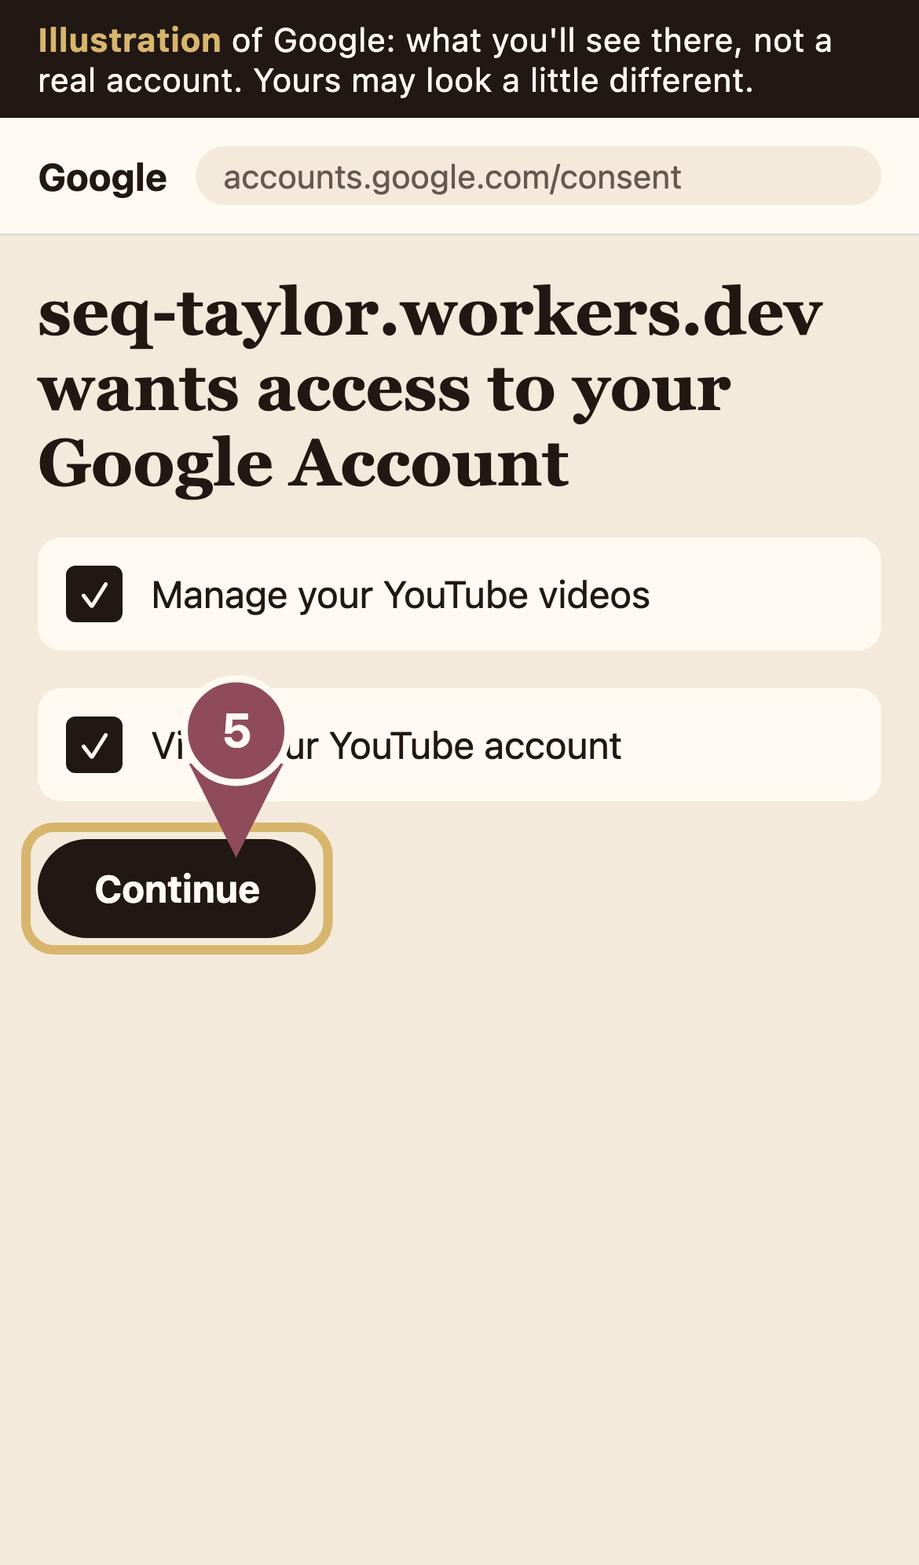
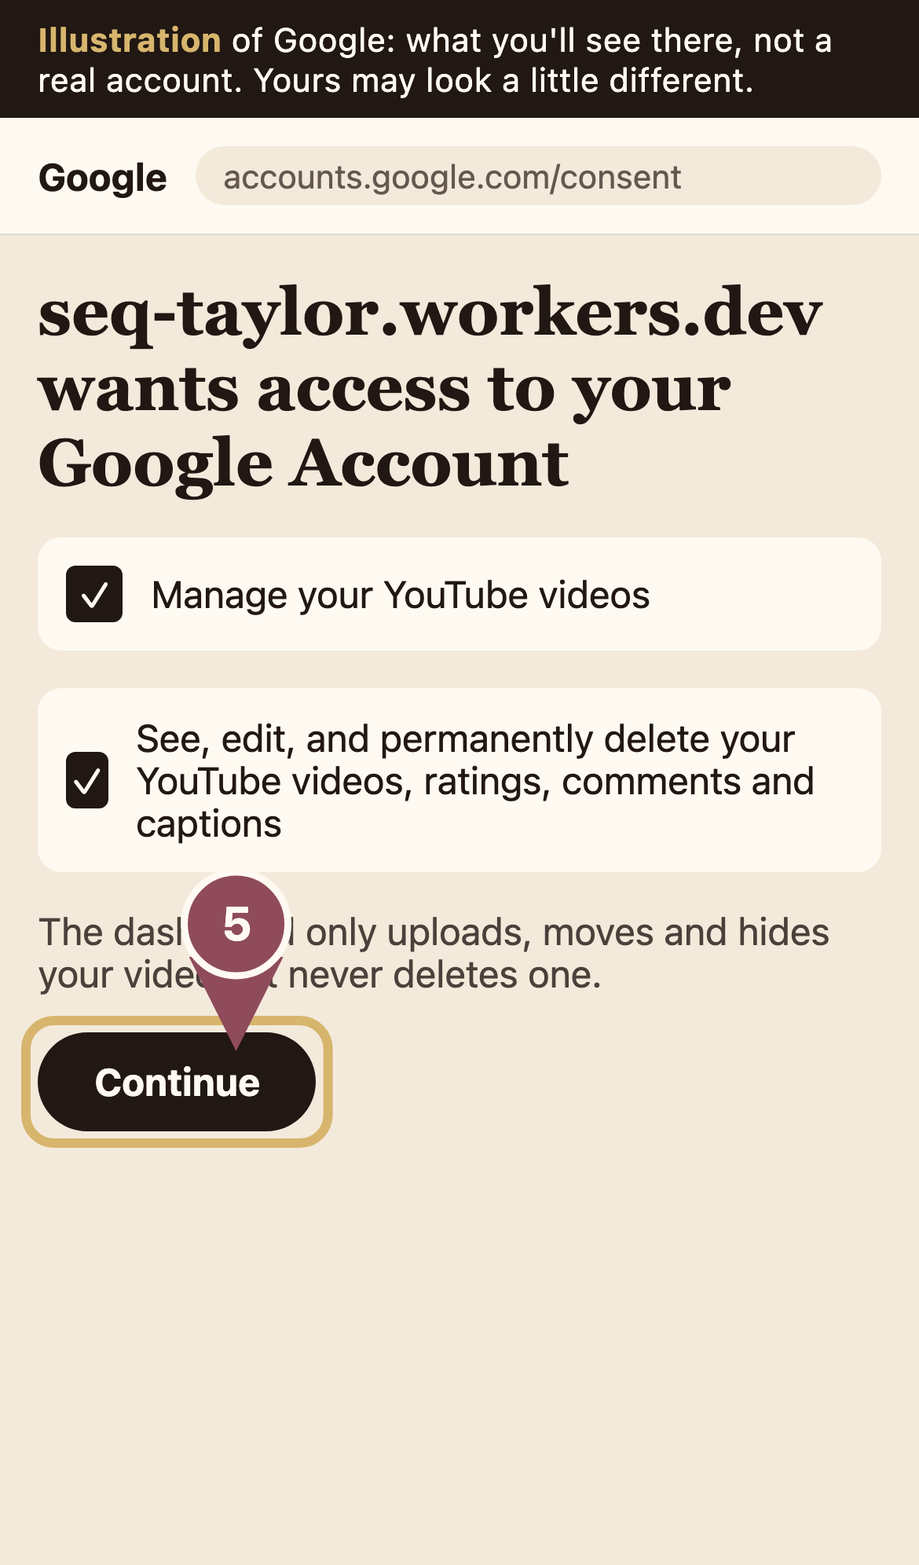
Connect YouTube: ask youtube.force-ssl so Calendar moves reach YouTube (videos.update 403 measured on staging); scope failures named; proof results (#58)
Claude-Session: https://claude.ai/code/session_0198aZUrMGZdHeBFG3uvPqJs

Changed region(s): [[0.0, 0.4357, 0.8923, 0.747]]

diff --git a/tests/unit/youtube-direct.test.ts b/tests/unit/youtube-direct.test.ts
@@ -3,7 +3,7 @@
 // bodies (shared/youtube-errors.json): upload → read back, Calendar move → publishAt, taken off →
 // private and kept, 3 a day, quota, revoked sign-in, refused publish time, unverified thumbnail,
 // kept private, an interrupted upload; the job's token endpoint; validator youtube-direct negatively.
-import { beforeEach, describe, expect, it } from "vitest";
+import { beforeEach, describe, expect, it, vi } from "vitest";
 import { Hono } from "hono";
 import { readFileSync } from "node:fs";
 import path from "node:path";
@@ -125,7 +125,7 @@ function seedVideo(privacy: "public" | "unlisted" | "private", hoursAhead: numbe
 }
 
 async function connect() {
-  await saveConnection(env, "youtube", JSON.stringify({ access_token: "fake-youtube-token", refresh_token: "fake-refresh", expires_at: new Date(Date.now() + H).toISOString(), account_id: "UCx" }), "ok", { account: "Sheila Bruce" });
+  await saveConnection(env, "youtube", JSON.stringify({ access_token: "fake-youtube-token", refresh_token: "fake-refresh", expires_at: new Date(Date.now() + H).toISOString(), account_id: "UCx" }), "ok", { account: "Sheila Bruce", scopes: ["https://www.googleapis.com/auth/youtube.upload", "https://www.googleapis.com/auth/youtube.force-ssl"] });
 }
 async function scenario(s: FakeScenario) {
   const f = await readFake(env);
@@ -278,6 +278,30 @@ describe("the failure shapes: named, lit, never silent", () => {
     expect(upload(v.clip).status).toBe("scheduled");
   });
 
+  it("a sign-in from before force-ssl (upload + readonly) → red, Reconnect YouTube once, never a silent 403", async () => {
+    await saveConnection(env, "youtube", JSON.stringify({ access_token: "a", refresh_token: "r", expires_at: new Date(Date.now() + H).toISOString(), account_id: "UCx" }), "ok", { account: "Sequoia Taylor", scopes: ["https://www.googleapis.com/auth/youtube.upload", "https://www.googleapis.com/auth/youtube.readonly"] });
+    seedVideo("public", 2);
+    expect((await youtubeDirectSync(env)).dispatched).toBe(0);
+    expect(one<{ status: string; last_error: string }>("SELECT status, last_error FROM connections WHERE service = 'youtube'")).toEqual({ status: "error", last_error: expect.stringMatching(/^Reconnect YouTube once so the dashboard can also move and hide/) });
+    expect(light()).toMatchObject({ light: "red", fix_guide: "reconnect-youtube" });
+  });
+
+  it("videos.update refused for a missing permission (the real 403 body) → reconnect named, the failure recorded with its reason", async () => {
+    await connect();
+    const v = seedVideo("public", 3);
+    await youtubeDirectSync(env);
+    await runJob(v);
+    // stand-in YouTube answers the next update with the real insufficientPermissions body
+    const svc = await import("@worker/services/youtubeDirect");
+    const orig = svc.getYouTubeDirect;
+    const spy = vi.spyOn(svc, "getYouTubeDirect").mockImplementation((e) => ({ ...orig(e), updateStatus: async () => svc.fixtureFail("insufficient_scope") }));
+    await call("POST", `/api/posts/${v.post}/unschedule`);
+    spy.mockRestore();
+    expect(JSON.parse(one<{ detail: string }>("SELECT detail FROM events WHERE kind = 'ytdirect.fail'").detail)).toEqual({ step: "update", kind: "scope", http: 403, reason: "insufficientPermissions" });
+    expect(one<{ status: string }>("SELECT status FROM connections WHERE service = 'youtube'").status).toBe("error");
+    expect(light()).toMatchObject({ light: "red", fix_guide: "reconnect-youtube" });
+  });
+
   it("the job's token endpoint: only a running ytupload job, only a short-lived access token; 409 when revoked", async () => {
     await connect();
     const v = seedVideo("public", 2);
@@ -387,7 +411,8 @@ describe("validator youtube-direct", () => {
       ["a delete", (g) => (g.service += '\nfetch(u, { method: "DELETE" });\n'), /never delete a video/],
       ["cap raised", (g) => (g.domain = g.domain.replace("YT_UPLOADS_PER_DAY = 3;", "YT_UPLOADS_PER_DAY = 6;")), /must be 3/],
       ["cap not enforced", (g) => (g.lib = g.lib.replace("const cap = capNote(today);", "const cap = null;")), /daily cap/],
-      ["extra scope", (g) => (g.lib = g.lib.replace('"https://www.googleapis.com/auth/youtube.readonly"]', '"https://www.googleapis.com/auth/youtube.readonly", "https://www.googleapis.com/auth/youtube"]')), /exactly youtube\.upload/],
+      ["extra scope", (g) => (g.lib = g.lib.replace('"https://www.googleapis.com/auth/youtube.force-ssl"]', '"https://www.googleapis.com/auth/youtube.force-ssl", "https://www.googleapis.com/auth/youtube"]')), /exactly youtube\.upload/],
+      ["update scope missing", (g) => (g.lib = g.lib.replace('"https://www.googleapis.com/auth/youtube.force-ssl"]', '"https://www.googleapis.com/auth/youtube.readonly"]')), /exactly youtube\.upload/],
       ["take off not followed", (g) => (g.posts = g.posts.replace("await followYouTube(c.env, [post.clip_id]);", "")), /follow YouTube/],
       ["hourly lane", (g) => (g.cron = g.cron.replace("await youtubeDirectSync(env);", "")), /hourly lane/],
       ["token endpoint leaks", (g) => (g.jobsRoute = g.jobsRoute.replace("c.json({ access_token: tok.access_token, expires_at: tok.expires_at }", "c.json({ ...tok }")), /only the access token/],

diff --git a/worker/lib/youtubeDirect.ts b/worker/lib/youtubeDirect.ts
@@ -40,8 +40,19 @@ import {
 import { composeDescription, type FullVideoDetails, type FullVideoPrivacy } from "../domain/fullVideo";
 import { POSTABLE_CLIP_SQL } from "../domain/sourceCheck";
 
-/** youtube.upload to put videos on her channel, youtube.readonly to read them back. Nothing else. */
-export const YT_UPLOAD_SCOPES = ["https://www.googleapis.com/auth/youtube.upload", "https://www.googleapis.com/auth/youtube.readonly"];
+/**
+ * youtube.upload puts videos on her channel; youtube.force-ssl reads them back and changes their
+ * publish time and privacy (videos.list / videos.update refuse youtube.upload + youtube.readonly with
+ * 403 insufficientPermissions: measured on staging 26 Sep 2026). Nothing else. The dashboard never
+ * deletes a video (validator youtube-direct), though Google words force-ssl as "edit and delete".
+ */
+export const YT_UPLOAD_SCOPES = ["https://www.googleapis.com/auth/youtube.upload", "https://www.googleapis.com/auth/youtube.force-ssl"];
+/** A sign-in without both scopes cannot follow the Calendar: it needs Reconnect YouTube. */
+export const RESCOPE_NOTE = "Reconnect YouTube once so the dashboard can also move and hide the videos it uploads (Google asks again for that). Until then new full videos wait on Home under Upload it yourself.";
+export function hasAllScopes(scope: string | null | undefined): boolean {
+  const got = (scope ?? "").split(/\s+/);
+  return YT_UPLOAD_SCOPES.every((s) => got.includes(s));
+}
 export const RECONNECT_GUIDE = "reconnect-youtube";
 export const CONNECT_GUIDE = "connect-youtube-full-videos";
 /** YouTube category 26 = Howto & Style (hosting, tablescapes, events); the same one Buffer's posts use. */
@@ -75,7 +86,12 @@ export interface UploadRow {
 }
 
 export async function directMode(env: Env): Promise<DirectMode> {
-  const row = await env.DB.prepare("SELECT status FROM connections WHERE service = 'youtube'").first<{ status: string }>();
+  const row = await env.DB.prepare("SELECT status, meta FROM connections WHERE service = 'youtube'").first<{ status: string; meta: string }>();
+  if (row?.status === "ok" && !hasAllScopes(parseJson<{ scopes?: string[] }>(row.meta, {}).scopes?.join(" "))) {
+    // Connected before the dashboard asked for everything it needs: one reconnect, named.
+    await markBroken(env, RESCOPE_NOTE);
+    return "broken";
+  }
   return row?.status === "ok" ? "on" : row?.status === "error" ? "broken" : "off";
 }
 
@@ -198,7 +214,7 @@ export async function buildUploadSpec(env: Env, jobId: string, ref: string | nul
 }
 
 export interface UploadOutcome {
-  outcome?: "uploaded" | "quota" | "upload_limit" | "revoked" | "failed";
+  outcome?: "uploaded" | "quota" | "upload_limit" | "revoked" | "scope" | "failed";
   video_id?: string;
   thumbnail?: "set" | "needs_verify" | "failed" | "none";
   publish_at_rejected?: boolean;
@@ -251,7 +267,12 @@ async function readBackAndVerify(env: Env, clipId: string, token: string, publis
 /** A named failure from YouTube or Google: the row, the light and the fallback, never silent. */
 async function nameFailure(env: Env, clipId: string, f: Pick<YtFail, "kind" | "http"> & { reason?: string | null }, step: string): Promise<void> {
   const now = new Date();
-  log.warn("ytdirect.fail", { step, kind: f.kind, http: f.http });
+  log.warn("ytdirect.fail", { step, kind: f.kind, http: f.http, reason: (f.reason ?? "").slice(0, 40) });
+  await recordEvent(env.DB, "ytdirect.fail", clipId, { step, kind: f.kind, http: f.http, reason: f.reason ?? null });
+  if (f.kind === "scope") {
+    await markBroken(env, RESCOPE_NOTE);
+    return;
+  }
   if (f.kind === "quota" || f.kind === "upload_limit") {
     // Waits for tomorrow's allowance: yellow, nothing for her to do.
     const r = await row(env, clipId);
@@ -290,7 +311,7 @@ export async function applyUpload(env: Env, jobId: string, ref: string | null, r
     return;
   }
   if (r.outcome !== "uploaded" || !r.video_id || !/^[\w-]{11}$/.test(r.video_id)) {
-    const kind = r.outcome === "quota" ? "quota" : r.outcome === "upload_limit" ? "upload_limit" : r.outcome === "revoked" ? "revoked" : "other";
+    const kind = r.outcome === "quota" ? "quota" : r.outcome === "upload_limit" ? "upload_limit" : r.outcome === "revoked" ? "revoked" : r.outcome === "scope" ? "scope" : "other";
     await nameFailure(env, clipId, { kind, http: Number(r.http) || 0, reason: r.reason ?? null }, "upload");
     return;
   }

diff --git a/worker/routes/oauth.ts b/worker/routes/oauth.ts
@@ -27,7 +27,7 @@ import { parseJson, recordEvent, setHealth } from "../lib/db";
 import { fail } from "../lib/http";
 import { newId } from "../lib/ids";
 import { log, safeError } from "../lib/log";
-import { markBroken as markYouTubeBroken, writeLight as writeYouTubeLight, YT_UPLOAD_SCOPES } from "../lib/youtubeDirect";
+import { hasAllScopes, markBroken as markYouTubeBroken, writeLight as writeYouTubeLight, YT_UPLOAD_SCOPES } from "../lib/youtubeDirect";
 
 export const oauth = new Hono<{ Bindings: Env; Variables: Vars }>();
 oauth.use("*", requireUser);
@@ -74,7 +74,7 @@ async function failConnect(env: Env, p: StatsProvider, why: string) {
 }
 
 /**
- * "Connect YouTube (full videos)": her own Google sign-in with youtube.upload + youtube.readonly,
+ * "Connect YouTube (full videos)": her own Google sign-in with youtube.upload + youtube.force-ssl,
  * offline (a refresh token), consent every time, incremental (include_granted_scopes keeps the
  * optional Stats sign-in's scopes). Google sends her back to the ONE registered callback,
  * /api/oauth/google/callback; the state cookie says it was this flow. Stored as its own connection
@@ -179,7 +179,7 @@ oauth.get("/:provider/callback", requireOwner, async (c) => {
     try {
       const { token, account, scope } = await exchangeGoogle(c.env, app, code);
       // Google's consent page lets her untick a box: without upload the videos cannot go up.
-      if (!scope.split(" ").includes(YT_UPLOAD_SCOPES[0])) throw new OAuthStop("no_upload", "Google didn't give permission to upload. Tap Connect YouTube again and leave every box ticked, then tap Continue.");
+      if (!hasAllScopes(scope)) throw new OAuthStop("no_upload", "Google didn't give permission to upload. Tap Connect YouTube again and leave every box ticked, then tap Continue.");
       await storeYouTube(c.env, token, account, scope, c.get("user").email);
       return c.redirect(back("connected=youtube"));
     } catch (e) {

diff --git a/worker/domain/youtubeDirect.ts b/worker/domain/youtubeDirect.ts
@@ -81,7 +81,7 @@ export function verifyReadBack(intent: Intent, got: ReadBack | null): Verdict {
   return { ok: false, why: "privacy", note: `YouTube shows it as ${got.privacyStatus ?? "unknown"}, not ${intent.privacyStatus}. Open it in YouTube Studio and set who can see it.`, guide: "post-a-full-video" };
 }
 
-export type ErrorKind = "quota" | "upload_limit" | "revoked" | "publish_at" | "thumb_verify" | "retry" | "other";
+export type ErrorKind = "quota" | "upload_limit" | "revoked" | "scope" | "publish_at" | "thumb_verify" | "retry" | "other";
 
 /**
  * YouTube's and Google's error shapes (shared/youtube-errors.json, the real bodies),
@@ -92,6 +92,8 @@ export function classifyError(http: number, reason: string | null | undefined, o
   const r = (reason ?? "").trim();
   if (r === "quotaExceeded" || r === "dailyLimitExceeded" || r === "rateLimitExceeded" || r === "userRateLimitExceeded") return "quota";
   if (r === "uploadLimitExceeded") return "upload_limit";
+  // The sign-in lacks a permission the call needs (insufficientPermissions / ACCESS_TOKEN_SCOPE_INSUFFICIENT): reconnect.
+  if (r === "insufficientPermissions" || r === "ACCESS_TOKEN_SCOPE_INSUFFICIENT" || r === "PERMISSION_DENIED") return "scope";
   if (http === 401 || r === "authError" || r === "invalid_grant" || r === "unauthorized_client") return "revoked";
   if (r === "invalidPublishAt") return "publish_at";
   if (opts.thumbnail && http === 403) return "thumb_verify";

diff --git a/worker/routes/legal.ts b/worker/routes/legal.ts
@@ -74,6 +74,9 @@ dashboard uses her Google account's permission for her YouTube channel to:</p>
   <li><strong>Read</strong> her channel's name, id and those videos' status back, to check each
   upload landed the way she asked, and her public video numbers for her Stats screen.</li>
 </ul>
+<p>Google's consent page words the second permission as "see, edit, and permanently delete your YouTube
+videos"; YouTube only offers the right to change a video's publish time together with that wording. The
+dashboard uses it only to read back, reschedule and make private the videos it uploaded.</p>
 <p>It does not read her email, contacts, comments, messages or anything outside her YouTube channel,
 and it does nothing on YouTube she did not ask for in the dashboard.</p>
 

diff --git a/tests/e2e/help-mocks.ts b/tests/e2e/help-mocks.ts
@@ -278,7 +278,8 @@ export const MOCKS: Record<string, Frame> = {
   ]),
   "youtube-allow": apiPage("Google", "accounts.google.com/consent", [], "", "seq-taylor.workers.dev wants access to your Google Account", [
     { k: "check", v: "Manage your YouTube videos", on: true },
-    { k: "check", v: "View your YouTube account", on: true },
+    { k: "check", v: "See, edit, and permanently delete your YouTube videos, ratings, comments and captions", on: true },
+    { k: "p", v: "The dashboard only uploads, moves and hides your videos. It never deletes one." },
     { k: "btn", v: "Continue", hl: true },
   ]),
   "youtube-channel": apiPage("YouTube", "youtube.com", ["Home", "Shorts", "You"], "You", "Your channel", [

diff --git a/jobs/ytupload.py b/jobs/ytupload.py
@@ -68,6 +68,8 @@ def kind_of(http: int, reason: str | None, thumbnail: bool = False) -> str:
         return "quota"
     if r == "uploadLimitExceeded":
         return "upload_limit"
+    if r in ("insufficientPermissions", "ACCESS_TOKEN_SCOPE_INSUFFICIENT", "PERMISSION_DENIED"):
+        return "scope"
     if http == 401 or r in ("authError", "invalid_grant", "unauthorized_client"):
         return "revoked"
     if r == "invalidPublishAt":
@@ -233,7 +235,7 @@ def upload(uploader: Uploader, spec: dict[str, Any], video: Path, thumb: bytes |
         video_res = uploader.send(session, video, size, int(spec.get("chunk_bytes") or 8 * 1024 * 1024), progress)
     except YouTubeError as e:
         kind = kind_of(e.http, e.reason)
-        outcome = kind if kind in ("quota", "upload_limit", "revoked") else "failed"
+        outcome = kind if kind in ("quota", "upload_limit", "revoked", "scope") else "failed"
         log("yt.upload.failed", status=e.http, kind=kind)
         return {"outcome": outcome, "http": e.http, "reason": (e.reason or "")[:40], "resumed": uploader.resumed}
     vid = video_res.get("id")

diff --git a/docs/PHASE-LEDGER.md b/docs/PHASE-LEDGER.md
@@ -28,7 +28,7 @@ stand-in so the app runs end to end; the real behaviour is the phase's remaining
 | Editors (CapCut hand-back + connected editors) | Live (fakes) | Owner, 25 Sep 2026: "connect her own CapCut and use that in lieu of our open source alt… any other premium popular influencer software (only the most popular)". Research per tool in `docs/EDITORS.md`. CapCut and InShot have no API: Edit in CapCut on every clip (share/save, edit, Replace with my edit: header check in the Worker, import mode measures again, loudness, cover, swap, "Edited in CapCut"). Connected editors with a verified self-serve API: Opus Clip, Vizard, Klap, Submagic, Descript (Connect rows with Check key, Disconnect, health light; Who edits per job; dump cut, captions, polish; every failure falls back to built-in). Not built, decided: Canva (designs, no video editing), Captions/Mirage (endpoints unpublished), VEED and Adobe Express (no self-serve API). Tests: `tests/unit/editors.test.ts`, `tests/e2e/editors.spec.ts`, selftest import mode. Not yet proven: every real vendor call (no key in the vault). |
 | Steering a dump (creative control) | Live (fakes) + selftest | Owner, 26 Sep 2026. Hostile review `docs/CREATIVE-CONTROL-REVIEW.md`. Which-videos cards (nothing preselected, hint bubbles, the Dump button names the choice); Surprise me with What we tried; chips (look incl. grids, music, pace, length, how many, captions, platforms); dump and per-video notes read by rules (+ free AI when connected) into the same controls plus must include / leave out, shown before Dump; anything not followed is listed on the dump with why; Review Change music and Try another version (migration 0013). Tests: `tests/unit/steer.test.ts` (13 note fixtures + spec honoring on the real schema), `tests/e2e/steer.spec.ts`, selftest `check_steer`; validator `steer-honored`. Not yet proven: the free AI's reading of notes the rules miss (staging has no OpenRouter key). |
 | Day 358 (archive, Tidy up, storage budget, Home caps) | Live (fakes), 26 Sep 2026 | Owner: "think about day 358… dismiss dumps that are old… cards that are stacking up" + "account for space and storage". Hostile review first on a year of demo data (`docs/reviews/2026-09-26-day-358.md`, `scripts/seed-year.mjs`, before/after `docs/design/day-358/`). Archive + Undo + Show archived for dumps, deals, briefs, voice overs; Home cards dismiss with Undo; Home capped (`HOME_CAPS`, fits an iPhone 13 screen); Tidy up (on by default); storage meter (every file), posted clip files 30 d unless in the kit, drafts 60 d with the Home warning first and Keep, 9 GB hard budget; paged lists with true counts (Dump, Review, Calendar → History, Voice overs, Deals, kit versions); dates carry the year. Migration 0016. Guards: validators `home-caps`, `tidy-warns-first`, `lists-paged`, `seed-year-local-only`; `tests/unit/day-358.test.ts`, `tests/e2e/day-358.spec.ts`; guides `archive-and-undo`, `storage-and-tidy`, `storage-almost-full`. RUNBOOK "Day 358". |
-| YouTube direct (full videos to her channel) | Live (fakes); staging proof next | Owner decision 26 Sep 2026. Public /privacy and /terms (#53, Google Branding). Connect YouTube (full videos) on Connect (upload + readonly, incremental, encrypted token), the hourly lane uploads approved full videos within 7 days of their slot via the ytupload job (resumable, short-lived token from the Worker), read back with videos.list, Calendar moves → publishAt, taken off → private and kept, 3 a day, every failure named (quota, revoked, publish time, unverified thumbnail, kept private, interrupted). Migration 0017. Guards: validator `youtube-direct`, `tests/unit/youtube-direct.test.ts`, `jobs/tests/test_ytupload.py`, `tests/e2e/youtube-direct.spec.ts`; RUNBOOK "YouTube: full videos straight to her channel". Not yet proven: the real Allow + uploads on staging. |
+| YouTube direct (full videos to her channel) | Live (fakes); staging proof next | Owner decision 26 Sep 2026. Public /privacy and /terms (#53, Google Branding). Connect YouTube (full videos) on Connect (upload + readonly, incremental, encrypted token), the hourly lane uploads approved full videos within 7 days of their slot via the ytupload job (resumable, short-lived token from the Worker), read back with videos.list, Calendar moves → publishAt, taken off → private and kept, 3 a day, every failure named (quota, revoked, publish time, unverified thumbnail, kept private, interrupted). Migration 0017. Guards: validator `youtube-direct`, `tests/unit/youtube-direct.test.ts`, `jobs/tests/test_ytupload.py`, `tests/e2e/youtube-direct.spec.ts`; RUNBOOK "YouTube: full videos straight to her channel". Staging proof 26 Sep 2026 (channel "Sequoia Taylor", synthetic 180 s 1280x720 TEST video, real GitHub runner, 33 MB in 4 chunks, 0 resumes): Private → video DQlRCUwW17c, videos.list {privacyStatus private, publishAt null, uploadStatus uploaded, failureReason null, rejectionReason null}, post Posted; Public a week out → 3bHoCHeBTgw, videos.list {privacyStatus private, publishAt 2026-10-03T11:55:33Z, uploadStatus uploaded} (the upload is NOT locked private: publishAt kept). thumbnails.set 403 on both → "Verify your channel's phone number" note, yellow. Calendar move and take-off: videos.update answered 403 (youtube.upload + readonly cannot update) → the sign-in now asks youtube.upload + youtube.force-ssl and an old sign-in turns red "Reconnect YouTube once"; move/remove re-proof after that reconnect. |
 | Hallmark design pass (brand-preserve) | Landed 6f2b297 | PR #11: A Sheila Bruce Affair tokens kept, every screen restyled; before/after captures and audit in `docs/design/`. Deployed to production and staging. |
 | 12. Hardening + handoff | Live (fakes) | Help center overhauled 26 Sep 2026 (`docs/HELP-REVIEW.md`, owner: "the help section has the same screenshot"): 75 guides (12 new: posting, health lights, voice overs, stats, switches, rates, brand finder, deal stages, deal memo, marketplaces, steering a dump, another version / music), one picture per step of exactly that step, 666 pictures all unique (was 560 with 260 unique: the job circled the page heading when a step had no target). Steps on other sites are labelled illustrations (`tests/e2e/help-mocks.ts`); each step sets its own demo state (`seed-help-extra.sql`, `seed-help-lights.sql`); a missing target or a duplicate picture fails the job; validator `help-pictures`; search answers her questions (`tests/unit/help-guides.test.ts`); tour follows the menu (8 stops, "Show me how"). CI: e2e.yml job `help-screenshots`. Proven live 2026-09-26: the screenshot job opens its PR and approves its own merge-gate run (#29). The handoff checklist is still open. |
 

diff --git a/RUNBOOK.md b/RUNBOOK.md
@@ -558,7 +558,7 @@ Shorts, TikTok and Instagram clips. Code: `worker/domain/youtubeDirect.ts` (rule
 fake YouTube), `worker/jobs/ytupload.ts` + `jobs/ytupload.py` + `.github/workflows/job-ytupload.yml`
 (the upload), migration `0017_youtube_direct.sql` (`youtube_uploads`, connection `youtube`).
 
-- **Sign-in:** `/api/oauth/youtube/start` asks youtube.upload + youtube.readonly, offline, prompt
+- **Sign-in:** `/api/oauth/youtube/start` asks youtube.upload + youtube.force-ssl (videos.update refuses anything less: 403 insufficientPermissions, measured 26 Sep 2026; a sign-in missing one turns red with "Reconnect YouTube once"), offline, prompt
   consent, include_granted_scopes; Google returns to the one registered callback
   `/api/oauth/google/callback` (the state cookie says which flow). Google Cloud project
   `sheilastudio-staging-p0`, External, In production (unverified), staging and production each have

diff --git a/help/guides/connect-youtube-full-videos.md b/help/guides/connect-youtube-full-videos.md
@@ -43,7 +43,7 @@ Tap **Go to seq-taylor.workers.dev (unsafe)**. Google says "unsafe" only because
 ![Step 5](/help/screenshots/connect-youtube-full-videos-5.png)
 <!-- mock: youtube-allow -->
 
-Leave both boxes ticked and tap **Continue**. You're back on Connect with a green light. That's all: nothing else to do, ever.
+Leave both boxes ticked and tap **Continue**. Google words the second box "edit and delete"; the dashboard only moves and hides your videos, never deletes one. You're back on Connect with a green light. That's all: nothing else to do, ever.
 
 ## Did this work?
 

diff --git a/help/guides/reconnect-youtube.md b/help/guides/reconnect-youtube.md
@@ -31,7 +31,7 @@ Pick your account. On **Google hasn't verified this app**, tap the small **Advan
 <!-- mock: youtube-allow -->
 <!-- shared -->
 
-Leave both boxes ticked and tap **Continue**. The light turns green and waiting videos upload within the hour.
+Leave both boxes ticked and tap **Continue** (the dashboard never deletes a video). The light turns green and waiting videos upload within the hour.
 
 ## Did this work?
 
